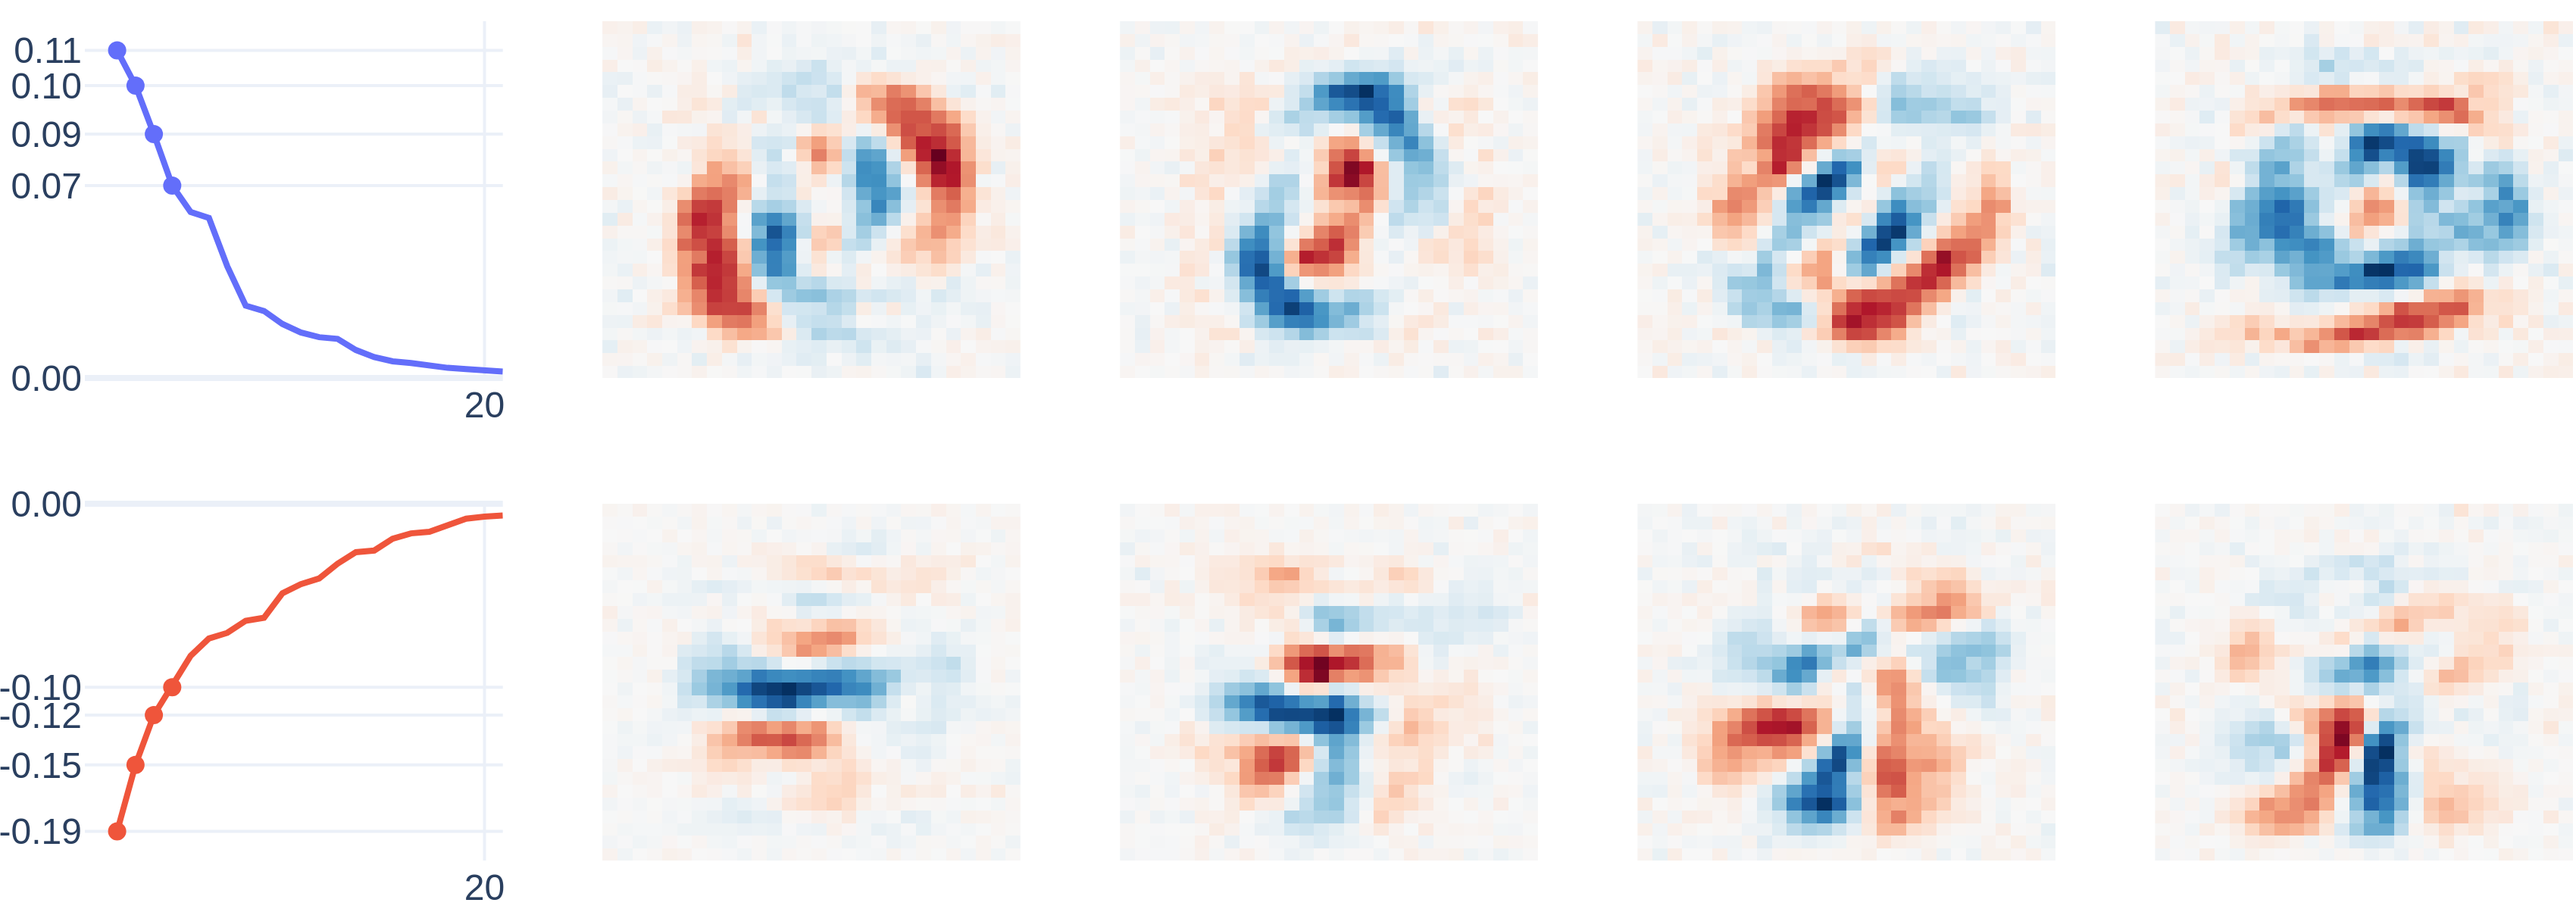
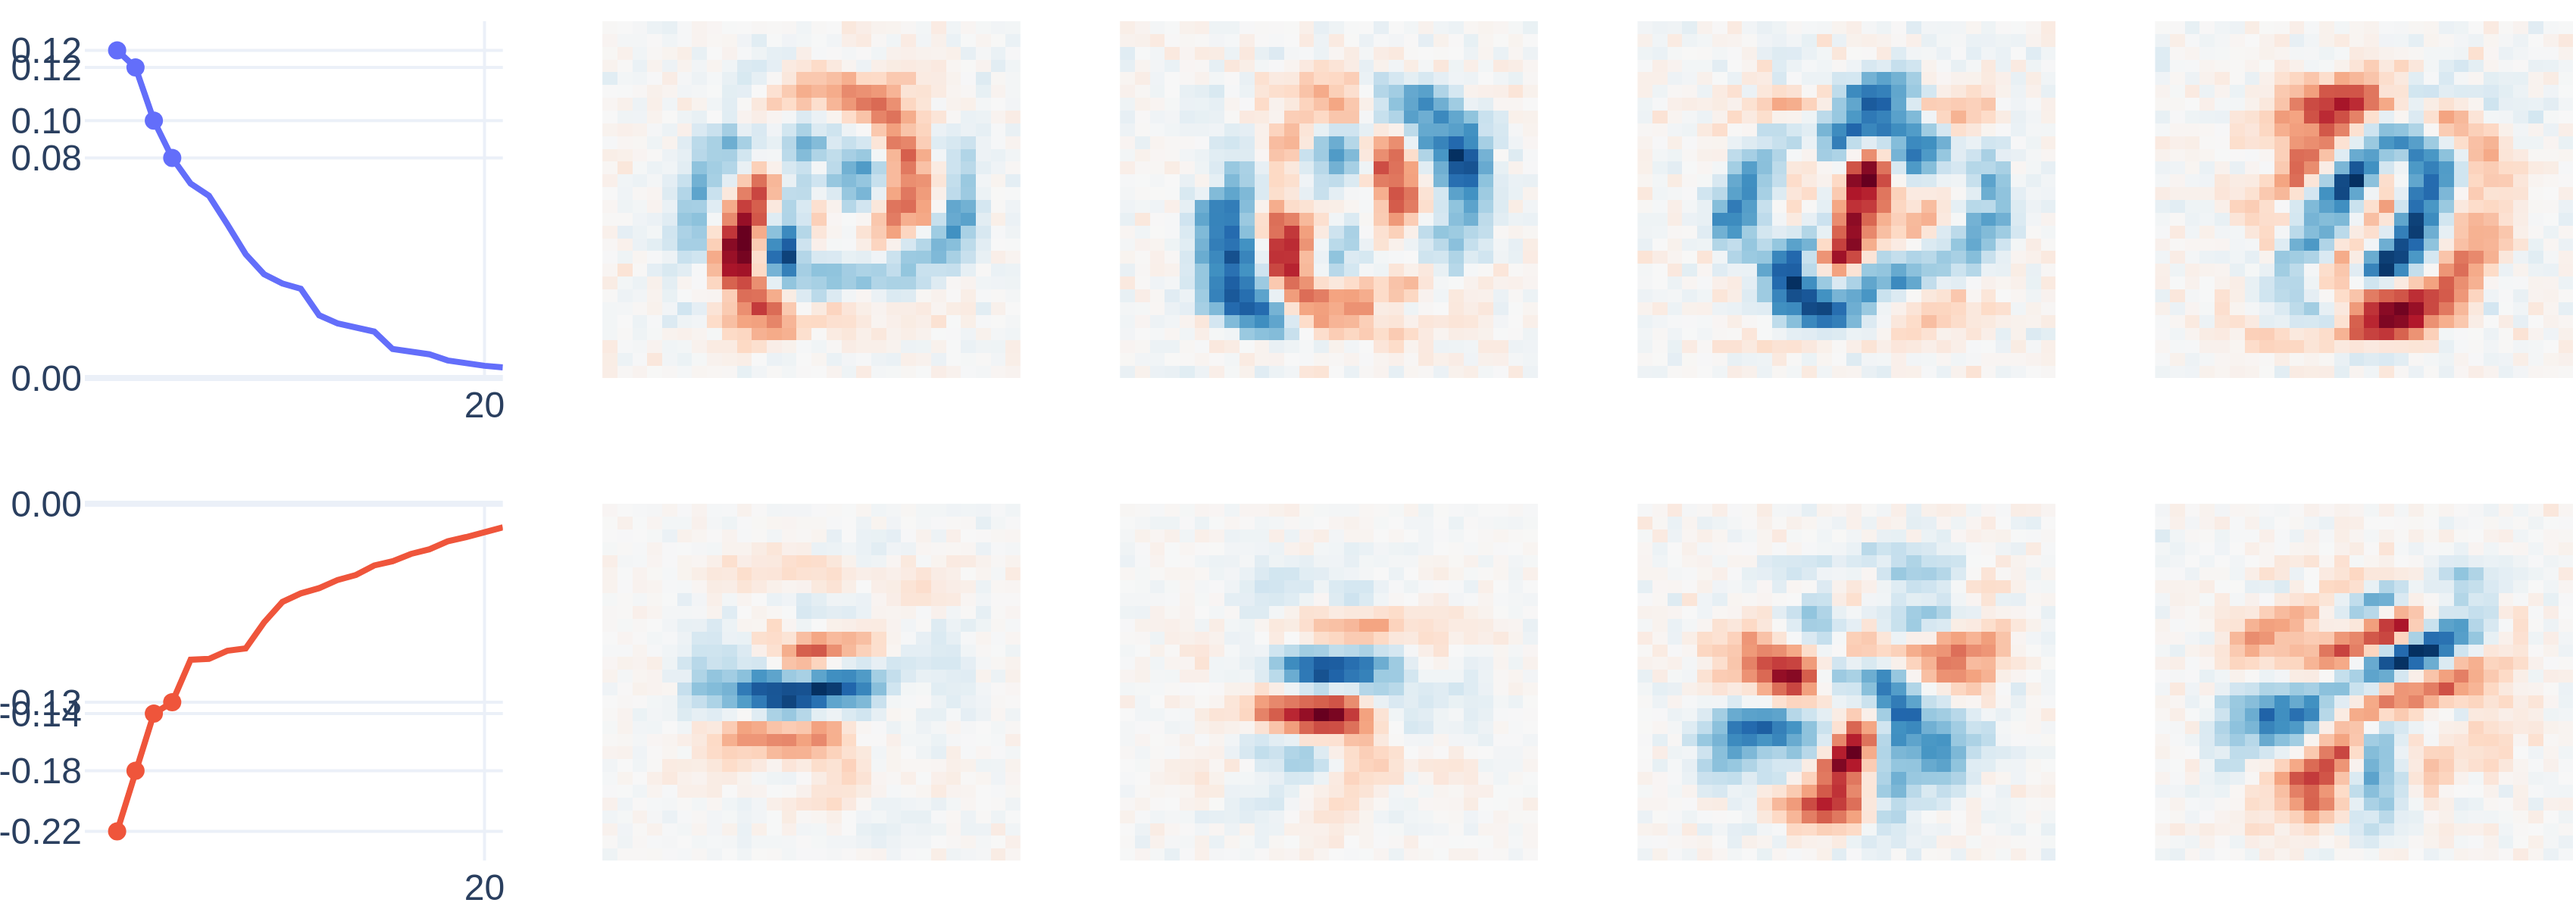
Reproduce image appendix figures

diff --git a/reproduction/image/appendix_f/appendix_f.py b/reproduction/image/appendix_f/appendix_f.py
@@ -4,6 +4,7 @@
 
 import os
 from itertools import product
+from pathlib import Path
 
 import matplotlib.pyplot as plt
 import plotly.express as px
@@ -16,6 +17,9 @@ from kornia.augmentation import RandomGaussianNoise
 from scipy import stats
 from torch import einsum, nn
 from torch.nn.functional import cosine_similarity
+
+os.chdir(Path(__file__).resolve().parents[3])
+HERE = Path(__file__).parent
 
 pio.templates.default = "plotly_white"
 
@@ -95,8 +99,8 @@ for d, i in product(range(6), range(5)):
 torch.set_grad_enabled(False)
 
 # Cache features
-torch.save(features, "features_trunc.pt")
-features = torch.load("features_trunc.pt")
+torch.save(features, HERE / "features_trunc.pt")
+features = torch.load(HERE / "features_trunc.pt")
 
 # =====================================
 # FIGURE 1 — Truncation across sizes (accuracy drop)
@@ -150,9 +154,7 @@ fig.update_yaxes(
     type="log",
 )
 
-fig.write_image(
-    "acc_drop_trunc.png"
-)
+fig.write_image(HERE / "acc_drop_trunc.png")
 
 # =====================================
 # FIGURE 2 — Similarity across eigenvectors
@@ -206,9 +208,7 @@ fig.update_layout(
 fig.update_xaxes(title="Eigenvector rank")
 fig.update_yaxes(title="Cosine similarity", range=[0.0, 1.01])
 
-fig.write_image(
-    "sim_eigenvecs.png"
-)
+fig.write_image(HERE / "sim_eigenvecs.png")
 
 # =====================================
 # FIGURE 3 — Heatmap
@@ -243,6 +243,4 @@ fig.update_yaxes(
     tickvals=torch.arange(6),
 )
 
-fig.write_image(
-    "heatmap.png"
-)
+fig.write_image(HERE / "heatmap.png")

diff --git a/reproduction/image/appendix_e/appendix_e.py b/reproduction/image/appendix_e/appendix_e.py
@@ -3,6 +3,7 @@
 # =====================================
 import os
 from itertools import product
+from pathlib import Path
 
 import plotly.express as px
 import plotly.io as pio
@@ -12,6 +13,9 @@ from image import MNIST, Model
 from kornia.augmentation import RandomGaussianNoise
 from torch import nn
 
+os.chdir(Path(__file__).resolve().parents[3])
+HERE = Path(__file__).parent
+
 pio.templates.default = "plotly_white"
 
 # Shared color settings
@@ -19,13 +23,6 @@ color = dict(
     color_continuous_scale="RdBu",
     color_continuous_midpoint=0.0,
 )
-
-# =====================================
-# Paths and device
-# =====================================
-
-out_dir = "./"
-os.makedirs(out_dir, exist_ok=True)
 
 device = "cuda" if torch.cuda.is_available() else "cpu"
 
@@ -112,8 +109,7 @@ fig.update_layout(
     title_x=0.45,
 )
 
-out_path = os.path.join(out_dir, "eigenval_sparsity.png")
-fig.write_image(out_path, scale=4)
+fig.write_image(HERE / "eigenval_sparsity.png", scale=4)
 
 # =====================================
 # Eigenvector sparsity analysis
@@ -147,8 +143,7 @@ fig.update_layout(
     title_x=0.45,
 )
 
-out_path = os.path.join(out_dir, "eigenvec_sparsity.png")
-fig.write_image(out_path, scale=4)
+fig.write_image(HERE / "eigenvec_sparsity.png", scale=4)
 
 # =====================================
 # Example eigenspectra for selected settings

diff --git a/reproduction/image/appendix_m/appendix_m.py b/reproduction/image/appendix_m/appendix_m.py
@@ -2,6 +2,7 @@
 # Imports
 # ============================================================
 import os
+from pathlib import Path
 
 import matplotlib.pyplot as plt
 import torch
@@ -14,9 +15,11 @@ from mpl_toolkits.axes_grid1 import ImageGrid
 # ============================================================
 # Global config
 # ============================================================
+os.chdir(Path(__file__).resolve().parents[3])
+HERE = Path(__file__).parent
+
 device = "cuda"
 torch.set_grad_enabled(True)
-os.makedirs("images", exist_ok=True)
 
 VMIN_DEC, VMAX_DEC = -0.25, 0.25
 VMIN_ENC, VMAX_ENC = -0.50, 0.50
@@ -71,7 +74,7 @@ for tag, cfg in EXPERIMENTS.items():
 
     torch.save(
         {"config": model.config, "model": model.state_dict()},
-        f"adversarial_model_{cfg['label']}.pt"
+        HERE / f"adversarial_model_{cfg['label']}.pt"
     )
 
     # ----------------------------
@@ -175,10 +178,7 @@ for tag, cfg in EXPERIMENTS.items():
 
     grid_enc.cbar_axes[0].colorbar(im)
 
-    plt.savefig(
-        f"adversarial_masks_{tag}.png",
-        bbox_inches="tight"
-    )
+    plt.savefig(HERE / f"adversarial_masks_{tag}.png", bbox_inches="tight")
     plt.close()
 
     torch.set_grad_enabled(True)

diff --git a/reproduction/image/appendix_a/appendix_a.py b/reproduction/image/appendix_a/appendix_a.py
@@ -3,21 +3,19 @@
 # =====================================
 
 import os
+from pathlib import Path
 
 import plotly.io as pio
 import torch
 from image import MNIST, Model
 from image.plotting import plot_eigenspectrum
-from kornia.augmentation import RandomAffine, RandomGaussianNoise
+from kornia.augmentation import RandomGaussianNoise
 from torch import nn
 
+os.chdir(Path(__file__).resolve().parents[3])
+HERE = Path(__file__).parent
+
 pio.templates.default = "plotly_white"
-
-# =====================================
-# Paths and device
-# =====================================
-
-out_dir = "./"
 
 device = "cuda" if torch.cuda.is_available() else "cpu"
 
@@ -28,6 +26,7 @@ device = "cuda" if torch.cuda.is_available() else "cpu"
 model = Model.from_config(
     epochs=100,
     wd=1.0,
+    d_hidden=512,
     n_layer=1,
     residual=False,
     seed=420,
@@ -65,8 +64,7 @@ for digit in range(10):
         eigenvalues=20,
     )
 
-    out_path = os.path.join(out_dir, f"digit_{digit}.png")
-    fig.write_image(out_path, scale=4)
+    fig.write_image(HERE / f"digit_{digit}.png", scale=4)
 
     print(f"Saved {out_path}")
 

diff --git a/reproduction/image/appendix_c/appendix_c.py b/reproduction/image/appendix_c/appendix_c.py
@@ -2,12 +2,18 @@
 # Imports and global setup
 # =====================================
 
+import os
+from pathlib import Path
+
 import plotly.io as pio
 import torch
 from einops import *
 from image import MNIST, Model, plot_explanation
 from kornia.augmentation import RandomGaussianNoise
 from torch import nn
+
+os.chdir(Path(__file__).resolve().parents[3])
+HERE = Path(__file__).parent
 
 pio.templates.default = "plotly_white"
 
@@ -50,9 +56,7 @@ torch.set_grad_enabled(False)
 sample = test.x[8]
 correctly_classified_5 = plot_explanation(mnist, sample)
 
-correctly_classified_5.write_image(
-    "correctly_classified_5.png"
-)
+correctly_classified_5.write_image(HERE / "correctly_classified_5.png")
 
 # =====================================
 # Explanation: misclassified example of a '2'
@@ -61,6 +65,4 @@ correctly_classified_5.write_image(
 sample = test.x[321]
 misclassified_2 = plot_explanation(mnist, sample)
 
-misclassified_2.write_image(
-    "misclassified_2.png"
-)
+misclassified_2.write_image(HERE / "misclassified_2.png")

diff --git a/reproduction/image/appendix_b/appendix_b.py b/reproduction/image/appendix_b/appendix_b.py
@@ -4,6 +4,7 @@
 import os
 from collections import namedtuple
 from itertools import product
+from pathlib import Path
 
 import plotly.express as px
 import plotly.graph_objects as go
@@ -16,6 +17,9 @@ from kornia.augmentation import (RandomAffine, RandomGaussianBlur,
 from plotly.subplots import make_subplots
 from safetensors.torch import load_file, save_file
 from torch import nn
+
+os.chdir(Path(__file__).resolve().parents[3])
+HERE = Path(__file__).parent
 
 pio.templates.default = "plotly_white"
 
@@ -109,10 +113,10 @@ name = "blur"  # or "rotation" or "translation"
 
 save_file(
     dict(vecs=all_vecs, vals=all_vals, accs=all_accs),
-    f"{name}.safetensors",
+    HERE / f"{name}.safetensors",
 )
 
-tensors = load_file(f"{name}.safetensors")
+tensors = load_file(HERE / f"{name}.safetensors")
 all_vecs = tensors["vecs"]
 all_vals = tensors["vals"]
 all_accs = tensors["accs"]
@@ -349,4 +353,4 @@ fig.add_annotation(
     showarrow=False
 )
 
-fig.write_image(f"{name}.png")
+fig.write_image(HERE / f"{name}.png")

diff --git a/reproduction/image/appendix_d/appendix_d.py b/reproduction/image/appendix_d/appendix_d.py
@@ -2,14 +2,20 @@
 # Imports and global setup
 # =====================================
 
+import os
+from pathlib import Path
+
 import plotly.express as px
 import plotly.io as pio
 import torch
 from einops import *
 from image import MNIST, Model
-from kornia.augmentation import RandomAffine, RandomGaussianNoise
+from kornia.augmentation import RandomGaussianNoise
 from plotly.subplots import make_subplots
 from torch import nn
+
+os.chdir(Path(__file__).resolve().parents[3])
+HERE = Path(__file__).parent
 
 pio.templates.default = "plotly_white"
 
@@ -272,4 +278,4 @@ for i in range(3):
 # Save figure
 # =====================================
 
-fig.write_image(f"hosvd_{feature}.png")
+fig.write_image(HERE / f"hosvd_{feature}.png")
